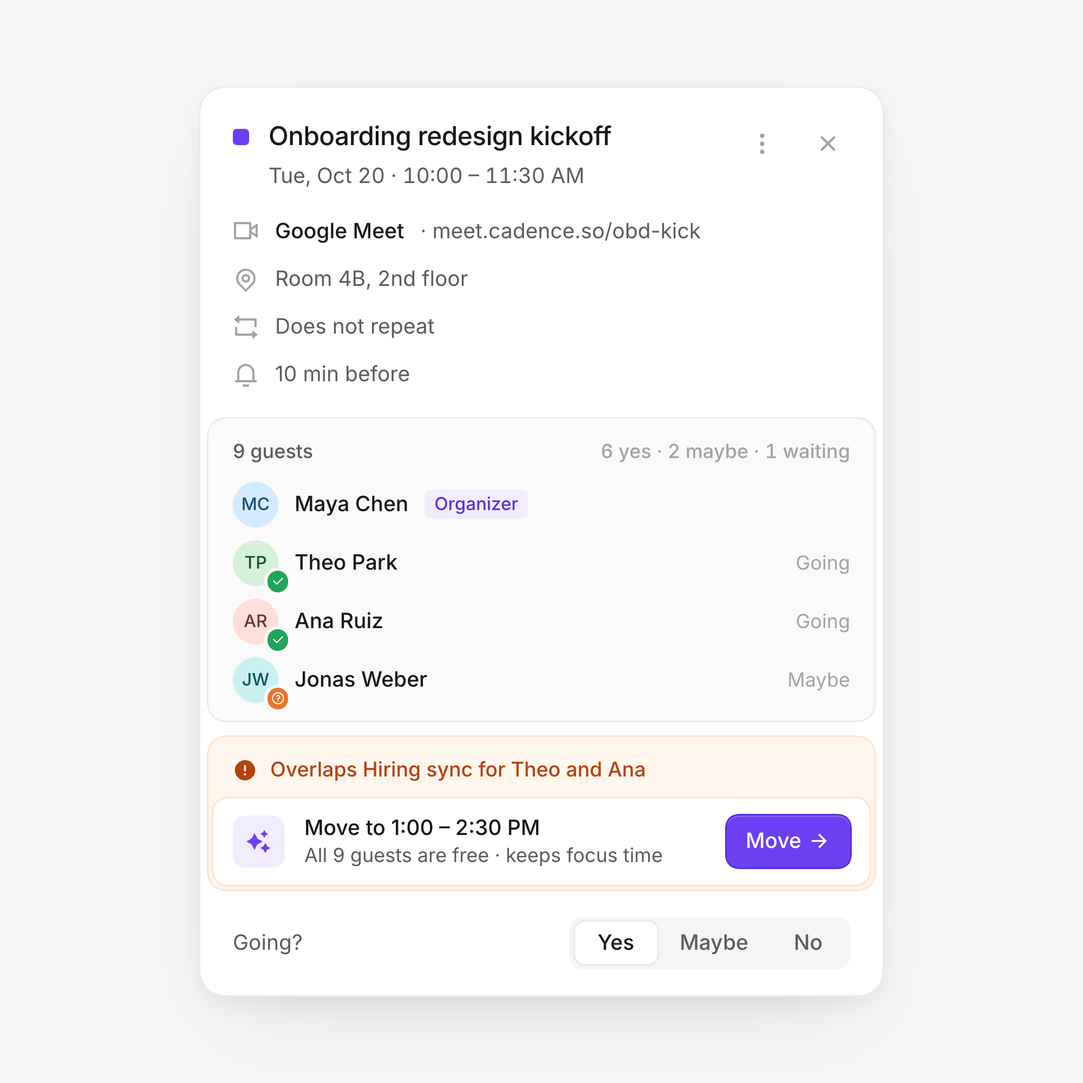
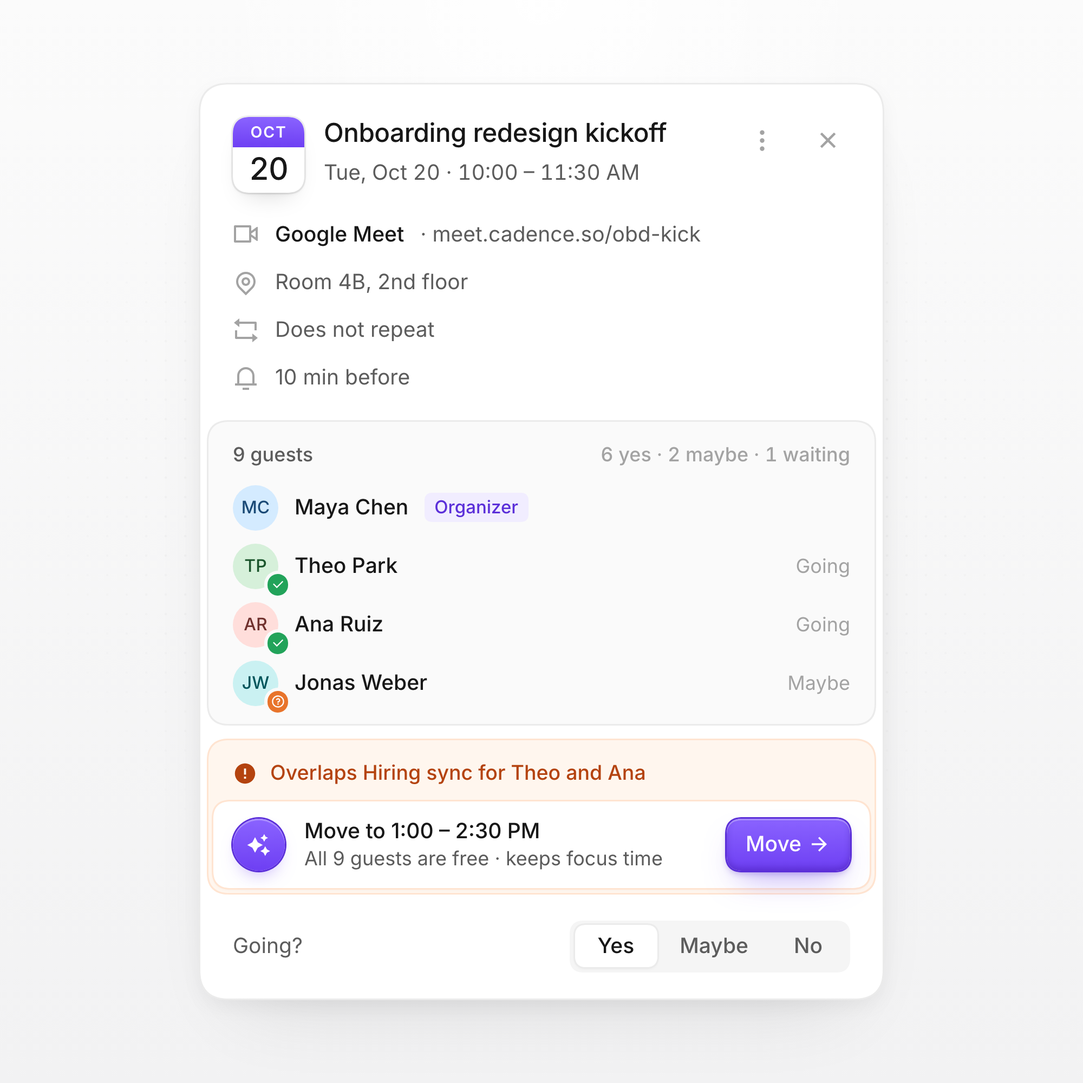
Cadence bento v2 as lit object scenes (Clerk/Raycast grammar in light mode) and restyled event post; founder rule on bento styling

diff --git a/work/replicas/app/src/Bento.tsx b/work/replicas/app/src/Bento.tsx
@@ -1,44 +1,47 @@
-// Cadence landing: the bento section (1440 wide). Each cell = muted kicker (13) + 2-line statement (20/500) + a real
-// mini-UI built from the calendar's own components, fading toward the cell edge (Kuleszo AKZ-17, Kargul micro-tokens:
-// cells are ring-only, r24; inner UI ring + control shadow). One violet accent; tones only where they carry meaning.
-// Sample data.
+// Cadence bento v2 in the Clerk/Raycast object-scene grammar (knowledge/benchmarks/bento/clerk-bento-a.png,
+// raycast-bento.png), carried to light mode: each cell is a lit scene (spotlight from above on a faint dot grid) holding
+// ONE tactile object built from the product (gradient fills, inner top highlight, layered contact + drop shadows),
+// lists fade by staggered opacity, copy sits small at the bottom (15/500 title + 14 muted). One violet accent. Sample data.
 import type { ReactNode } from 'react'
-import { RiTimeFill, RiSparkling2Fill, RiErrorWarningFill, RiArrowRightLine, RiCheckLine, RiLink, RiCalendar2Line, RiVideoOnLine } from '@remixicon/react'
+import { RiSparkling2Fill, RiLockFill, RiArrowRightLine, RiLink, RiCheckLine, RiTimeFill, RiCalendar2Line } from '@remixicon/react'
 
-const C = { ink: '#171717', sub: '#5c5c5c', soft: '#a3a3a3', line: '#ebebeb', violet: '#6e3ff3' }
-const ring = `0 0 0 1px ${C.line}`, lift = `0 0 0 1px ${C.line}, 0 4.5px 13px rgb(0 0 0 / 0.055)`
-const Face = ({ n, hue, s = 24 }: { n: string; hue: number; s?: number }) => <span className="grid shrink-0 place-items-center rounded-full font-[500] ring-2 ring-white" style={{ width: s, height: s, fontSize: s * 0.4, background: `oklch(0.93 0.04 ${hue})`, color: `oklch(0.4 0.09 ${hue})` }}>{n}</span>
+const C = { ink: '#171717', sub: '#5c5c5c', soft: '#a3a3a3', line: '#ebebeb', v: '#6e3ff3' }
+// tactile white object: ring, top highlight, contact shadow, soft drop
+const obj = '0 0 0 1px rgb(0 0 0 / 0.06), inset 0 1px 0 #fff, 0 1px 2px rgb(0 0 0 / 0.06), 0 10px 24px -10px rgb(0 0 0 / 0.16)'
+const raised = '0 0 0 1px #5b2fd9, inset 0 1px 0 rgb(255 255 255 / 0.28), inset 0 -2px 4px rgb(40 0 120 / 0.25), 0 2px 4px rgb(68 27 180 / 0.25), 0 14px 28px -10px rgb(110 63 243 / 0.55)'
+const Face = ({ n, hue, s = 30 }: { n: string; hue: number; s?: number }) => <span className="grid shrink-0 place-items-center rounded-full font-[500]" style={{ width: s, height: s, fontSize: s * 0.36, background: `linear-gradient(180deg, oklch(0.95 0.035 ${hue}), oklch(0.9 0.05 ${hue}))`, color: `oklch(0.4 0.09 ${hue})`, boxShadow: '0 0 0 2px #fff, 0 2px 6px -2px rgb(0 0 0 / 0.2)' }}>{n}</span>
 
-function Cell({ kicker, title, children, className = '', fade = true }: { kicker: string; title: ReactNode; children: ReactNode; className?: string; fade?: boolean }) {
+function Cell({ title, body, children, className = '', h }: { title: string; body: string; children: ReactNode; className?: string; h: number }) {
   return (
-    <div className={`relative flex flex-col overflow-hidden rounded-[24px] bg-white ${className}`} style={{ boxShadow: ring }}>
-      <div className="px-7 pt-7"><div className="text-[13px]" style={{ color: C.soft }}>{kicker}</div><div className="mt-2 text-[20px] font-[500] leading-[26px] tracking-[-0.02em]">{title}</div></div>
-      <div className="relative mt-6 flex-1" style={fade ? { maskImage: 'linear-gradient(180deg, #000 72%, transparent)' } : undefined}>{children}</div>
+    <div className={`relative overflow-hidden rounded-[24px] ${className}`} style={{ height: h, background: 'linear-gradient(180deg, #fbfbfb, #f4f4f5)', boxShadow: '0 0 0 1px rgb(0 0 0 / 0.05), inset 0 1px 0 #fff' }}>
+      <div aria-hidden className="absolute inset-0" style={{ backgroundImage: 'radial-gradient(rgb(0 0 0 / 0.07) 1px, transparent 1.3px)', backgroundSize: '16px 16px', maskImage: 'radial-gradient(70% 60% at 50% 30%, #000, transparent 80%)' }} />
+      <div aria-hidden className="absolute inset-x-0 top-0 h-[70%]" style={{ background: 'radial-gradient(50% 70% at 50% 0%, rgb(255 255 255 / 0.95), transparent 70%)' }} />
+      <div className="absolute inset-x-0 top-0" style={{ height: h - 118 }}>{children}</div>
+      <div className="absolute inset-x-7 bottom-7"><div className="text-[15px] font-[500] tracking-[-0.01em]">{title}</div><div className="mt-1.5 text-[14px] leading-[21px]" style={{ color: C.sub }}>{body}</div></div>
     </div>
   )
 }
 
 function FindTime() {
-  const P: [string, number, [number, number][]][] = [['MC', 250, [[0, 2], [6, 8]]], ['TP', 150, [[1, 3], [7, 9]]], ['AR', 25, [[0, 1], [3, 4], [8, 9]]], ['JW', 200, [[2, 4]]], ['LV', 60, [[0, 2], [7, 10]]]]
-  const col = (i: number) => `${(i / 10) * 100}%`
+  const H = ['10', '11', '12', '1', '2', '3', '4']
   return (
-    <div className="mx-7 rounded-[16px] bg-[#fafafa] p-4" style={{ boxShadow: `inset 0 0 0 1px ${C.line}` }}>
-      <div className="relative mb-3 ml-9 h-4 text-[11px] tabular-nums" style={{ color: C.soft }}>{['9', '10', '11', '12', '1', '2', '3', '4', '5', '6'].map((h, i) => <span key={h} className="absolute" style={{ left: col(i) }}>{h}</span>)}</div>
-      <div className="relative space-y-2">
-        <div className="absolute bottom-[-6px] top-[-6px] z-10 rounded-[10px]" style={{ left: `calc(36px + (100% - 36px) * 0.5)`, width: `calc((100% - 36px) * 0.1)`, boxShadow: `inset 0 0 0 1.5px ${C.violet}`, background: 'rgb(110 63 243 / 0.06)' }} />
-        {P.map(([n, hue, busy]) => (
-          <div key={n} className="flex items-center gap-3">
-            <Face n={n} hue={hue} />
-            <div className="relative h-6 flex-1 rounded-[7px]" style={{ background: '#fff', boxShadow: `inset 0 0 0 1px ${C.line}` }}>
-              {busy.map(([a, b], i) => <span key={i} className="absolute inset-y-[3px] rounded-[5px]" style={{ left: `calc(${col(a)} + 2px)`, width: `calc(${col(b - a)} - 4px)`, background: '#ececec' }} />)}
-            </div>
-          </div>
-        ))}
-      </div>
-      <div className="mt-4 flex items-center gap-2 rounded-[12px] bg-white px-3 py-2.5" style={{ boxShadow: lift }}>
-        <span className="grid size-7 place-items-center rounded-[8px]" style={{ background: '#f1edff', color: C.violet }}><RiSparkling2Fill size={15} /></span>
-        <span className="text-[13px] font-[500]">Wed 2:00 – 3:00 PM</span><span className="text-[12.5px]" style={{ color: C.sub }}>· all 5 free, no focus time touched</span>
-        <span className="ml-auto flex h-8 items-center gap-1 rounded-[9px] px-3 text-[13px] font-[500] text-white" style={{ background: C.violet, boxShadow: '0 0 0 1px #5b2fd9, inset 0 1px 0 rgb(255 255 255 / 0.18)' }}>Book<RiArrowRightLine size={14} /></span>
+    <div className="grid h-full place-items-center">
+      <div className="relative">
+        <div className="flex gap-3">
+          {H.map((h) => {
+            const on = h === '2', busy = ['11', '3'].includes(h)
+            return (
+              <div key={h} className="grid h-[86px] w-[72px] place-items-center rounded-[18px] text-[24px] tracking-[-0.02em] tabular-nums" style={on ? { background: 'linear-gradient(180deg, #8a63ff, #6e3ff3)', color: '#fff', boxShadow: raised, transform: 'translateY(-10px)' } : { background: 'linear-gradient(180deg, #fff, #f6f6f6)', color: busy ? '#cfcfcf' : C.ink, boxShadow: obj }}>
+                <span className="leading-none">{h}<span className="block pt-1 text-center text-[11px] tracking-normal" style={{ color: on ? 'rgb(255 255 255 / 0.75)' : C.soft }}>{busy ? 'busy' : Number(h) < 9 ? 'PM' : 'AM'}</span></span>
+              </div>
+            )
+          })}
+        </div>
+        <div className="absolute -top-[74px] left-[372px] flex -translate-x-1/2 -space-x-1.5">{[['M', 250], ['T', 150], ['A', 25], ['J', 200], ['L', 60]].map(([n, h]) => <Face key={n} n={n as string} hue={h as number} />)}</div>
+        <svg className="pointer-events-none absolute -top-[42px] left-[336px]" width="72" height="34" aria-hidden><path d="M36 0V30" stroke={C.v} strokeWidth="1.5" strokeDasharray="2 4" strokeLinecap="round" /></svg>
+        <div className="absolute -bottom-[62px] left-1/2 flex -translate-x-1/2 items-center gap-2 whitespace-nowrap rounded-full bg-white py-1.5 pl-1.5 pr-3 text-[13px] font-[500]" style={{ boxShadow: obj }}>
+          <span className="grid size-6 place-items-center rounded-full" style={{ background: '#f1edff', color: C.v }}><RiSparkling2Fill size={13} /></span>Wed 2:00 PM · all 5 free
+        </div>
       </div>
     </div>
   )
@@ -46,32 +49,35 @@ function FindTime() {
 
 function Focus() {
   return (
-    <div className="mx-7 space-y-2">
-      <div className="rounded-[14px] px-4 py-3.5" style={{ backgroundImage: 'repeating-linear-gradient(135deg, rgb(110 63 243 / 0.08) 0 1px, transparent 1px 7px)', boxShadow: 'inset 0 0 0 1px rgb(110 63 243 / 0.2)' }}>
-        <div className="flex items-center gap-1.5 text-[13px] font-[500]" style={{ color: C.violet }}><RiTimeFill size={15} />Focus time · 9:00 – 11:00</div>
-        <div className="mt-0.5 text-[12px]" style={{ color: C.sub }}>Protected for 3 weeks running</div>
+    <div className="flex h-full flex-col items-center pt-12">
+      <div className="relative grid h-[96px] w-[230px] place-items-center rounded-[22px]" style={{ backgroundImage: 'repeating-linear-gradient(135deg, rgb(110 63 243 / 0.12) 0 1.2px, rgb(110 63 243 / 0.03) 1.2px 8px)', boxShadow: 'inset 0 0 0 1px rgb(110 63 243 / 0.22), 0 10px 24px -14px rgb(110 63 243 / 0.5)' }}>
+        <span className="grid size-[58px] place-items-center rounded-full text-white" style={{ background: 'linear-gradient(180deg, #8a63ff, #6e3ff3)', boxShadow: raised }}><RiLockFill size={24} /></span>
+        <span className="absolute -bottom-3 rounded-full bg-white px-2.5 py-1 text-[12px] font-[500] tabular-nums" style={{ color: C.v, boxShadow: obj }}>9:00 – 11:00</span>
       </div>
-      {[['Vendor call: Halo', 'Declined · offered Thu 4 PM'], ['Quick sync?', 'Declined · moved to async thread'], ['Design review', 'Moved to 2:00 PM']].map(([t, s]) => (
-        <div key={t} className="flex items-center gap-2.5 rounded-[12px] bg-white px-3 py-2.5" style={{ boxShadow: lift }}>
-          <span className="grid size-6 place-items-center rounded-full" style={{ background: '#f5f5f5', color: C.sub }}><RiCheckLine size={13} /></span>
-          <div className="leading-tight"><div className="text-[13px] font-[500]">{t}</div><div className="mt-0.5 text-[12px]" style={{ color: C.soft }}>{s}</div></div>
-        </div>
-      ))}
+      <div className="mt-8 w-[250px] space-y-2">
+        {[['Vendor call: Halo', 1], ['Quick sync?', 0.55], ['Design review', 0.25]].map(([t, o]) => (
+          <div key={t as string} className="flex items-center gap-2.5 rounded-[12px] bg-white px-3 py-2" style={{ boxShadow: obj, opacity: o as number }}>
+            <span className="grid size-5 place-items-center rounded-full" style={{ background: '#f5f5f5', color: C.sub }}><RiCheckLine size={12} /></span>
+            <span className="text-[13px] font-[500]">{t as string}</span><span className="ml-auto text-[12px]" style={{ color: C.soft }}>Declined</span>
+          </div>
+        ))}
+      </div>
     </div>
   )
 }
 
 function Conflict() {
   return (
-    <div className="mx-7">
-      <div className="relative h-[112px]">
-        <div className="absolute left-0 top-0 h-[76px] w-[64%] rounded-[12px] px-3 py-2.5" style={{ background: '#f4f0ff', boxShadow: 'inset 0 0 0 1px #e6dcff' }}><div className="text-[12.5px] font-[500]">Onboarding kickoff</div><div className="text-[11.5px]" style={{ color: '#5b2fd9' }}>10:00 – 11:30</div></div>
-        <div className="absolute right-0 top-[36px] h-[60px] w-[54%] rounded-[12px] px-3 py-2.5" style={{ background: '#eef4ff', boxShadow: 'inset 0 0 0 1px #dce8ff, 0 4px 10px -4px rgb(0 0 0 / 0.08)' }}><div className="text-[12.5px] font-[500]">Hiring sync</div><div className="text-[11.5px]" style={{ color: '#1d4fb8' }}>10:30 – 11:00</div></div>
-        <span className="absolute left-[46%] top-[24px] grid size-6 -translate-x-1/2 place-items-center rounded-full bg-white" style={{ boxShadow: lift, color: '#e8742b' }}><RiErrorWarningFill size={15} /></span>
-      </div>
-      <div className="flex items-center gap-2.5 rounded-[12px] bg-white px-3 py-2.5" style={{ boxShadow: lift }}>
-        <span className="grid size-7 place-items-center rounded-[8px]" style={{ background: '#f1edff', color: C.violet }}><RiSparkling2Fill size={14} /></span>
-        <div className="leading-tight"><div className="text-[13px] font-[500]">Move kickoff to 1:00 PM</div><div className="mt-0.5 text-[12px]" style={{ color: C.sub }}>All 9 guests free</div></div>
+    <div className="grid h-full place-items-center" style={{ perspective: 900 }}>
+      <div className="relative h-[200px] w-[300px]" style={{ transform: 'rotateX(28deg) rotateZ(-10deg)', transformStyle: 'preserve-3d' }}>
+        <div className="absolute inset-0 rounded-[20px]" style={{ background: 'linear-gradient(180deg, #fff, #f6f6f6)', boxShadow: obj }}>
+          {[0, 1, 2, 3].map((i) => <div key={i} className="absolute inset-x-4 h-px" style={{ top: 30 + i * 46, background: C.line }} />)}
+        </div>
+        <div className="absolute left-5 top-9 h-[70px] w-[150px] rounded-[12px] px-3 py-2" style={{ background: '#f4f0ff', boxShadow: 'inset 0 0 0 1px #e1d6ff' }}><div className="text-[12px] font-[500]">Hiring sync</div><div className="text-[11px]" style={{ color: '#5b2fd9' }}>10:30</div></div>
+        <div className="absolute left-[132px] top-[96px] h-[70px] w-[150px] rounded-[12px] px-3 py-2" style={{ background: '#fff', boxShadow: '0 0 0 1.5px #6e3ff3, 0 18px 30px -12px rgb(110 63 243 / 0.5)', transform: 'translateZ(36px)' }}>
+          <div className="text-[12px] font-[500]">Kickoff</div><div className="text-[11px]" style={{ color: C.v }}>moved to 1:00 PM</div>
+        </div>
+        <svg className="absolute left-[110px] top-[60px]" width="80" height="60" aria-hidden><path d="M4 6C30 6 48 20 60 50" fill="none" stroke={C.v} strokeWidth="1.5" strokeDasharray="2 4" strokeLinecap="round" /></svg>
       </div>
     </div>
   )
@@ -79,34 +85,36 @@ function Conflict() {
 
 function Booking() {
   return (
-    <div className="mx-7 rounded-[16px] bg-white p-4" style={{ boxShadow: lift }}>
-      <div className="flex items-center gap-2.5"><Face n="MC" hue={250} s={30} /><div className="leading-tight"><div className="text-[13px] font-[500]">Intro with Maya</div><div className="mt-0.5 flex items-center gap-1 text-[12px]" style={{ color: C.soft }}><RiVideoOnLine size={13} />30 min · Meet</div></div></div>
-      <div className="mt-3.5 text-[12px] font-[500]" style={{ color: C.sub }}>Thu, Oct 22</div>
-      <div className="mt-2 grid grid-cols-3 gap-1.5">{['9:30', '10:00', '1:30', '2:00', '3:30', '4:00'].map((t, i) => <span key={t} className="grid h-8 place-items-center rounded-[9px] text-[12.5px] font-[500] tabular-nums" style={i === 3 ? { background: C.violet, color: '#fff', boxShadow: '0 0 0 1px #5b2fd9' } : { boxShadow: ring, color: C.ink }}>{t}</span>)}</div>
-      <div className="mt-3 flex items-center gap-1.5 text-[12px]" style={{ color: C.soft }}><RiLink size={13} />cadence.so/maya/intro</div>
+    <div className="flex h-full flex-col items-center pt-14">
+      <div className="flex items-center gap-2 rounded-full bg-white py-2 pl-2 pr-4 text-[14px] font-[500]" style={{ boxShadow: `${obj}, 0 0 0 6px rgb(110 63 243 / 0.06)` }}>
+        <span className="grid size-8 place-items-center rounded-full text-white" style={{ background: 'linear-gradient(180deg, #8a63ff, #6e3ff3)', boxShadow: raised }}><RiLink size={15} /></span>cadence.so/maya
+      </div>
+      <div className="mt-9 flex gap-2">
+        {['9:30', '1:30', '2:00', '3:30'].map((t, i) => (
+          <span key={t} className="grid h-11 w-[64px] place-items-center rounded-[13px] text-[14px] font-[500] tabular-nums" style={i === 2 ? { background: 'linear-gradient(180deg, #8a63ff, #6e3ff3)', color: '#fff', boxShadow: raised, transform: 'translateY(-6px)' } : { background: 'linear-gradient(180deg, #fff, #f6f6f6)', boxShadow: obj, opacity: [0.5, 0.8, 1, 0.8][i] }}>{t}</span>
+        ))}
+      </div>
+      <div className="mt-5 flex items-center gap-1.5 text-[12.5px]" style={{ color: C.sub }}><RiCalendar2Line size={14} />Thu, Oct 22 · 30 min</div>
     </div>
   )
 }
 
 function Insight() {
-  const D: [string, number, number][] = [['Mon', 4.5, 2], ['Tue', 3, 3.5], ['Wed', 5, 1], ['Thu', 2, 4], ['Fri', 1.5, 4.5]]
+  const D: [string, number, number][] = [['M', 4.5, 2], ['T', 3, 3.5], ['W', 5, 1], ['T', 2, 4], ['F', 1.5, 4.5]]
   return (
-    <div className="mx-7">
-      <div className="flex items-baseline gap-2"><span className="text-[28px] tracking-[-0.02em] tabular-nums" style={{ color: C.violet }}>15h</span><span className="text-[13px]" style={{ color: C.sub }}>focus time · +4h vs last week</span></div>
-      <div className="mt-4 flex items-end gap-3" style={{ height: 150 }}>
-        {D.map(([d, m, f]) => (
-          <div key={d} className="flex flex-1 flex-col items-center gap-2">
-            <div className="flex w-full flex-col gap-1">
-              <span className="w-full rounded-[6px]" style={{ height: f * 15, backgroundImage: 'repeating-linear-gradient(135deg, rgb(110 63 243 / 0.22) 0 1px, rgb(110 63 243 / 0.08) 1px 6px)', boxShadow: 'inset 0 0 0 1px rgb(110 63 243 / 0.25)' }} />
-              <span className="w-full rounded-[6px] bg-[#171717]" style={{ height: m * 15, opacity: 0.85 }} />
-            </div>
-            <span className="text-[11.5px]" style={{ color: C.soft }}>{d}</span>
+    <div className="flex h-full items-end justify-center gap-3.5 pb-6">
+      {D.map(([d, m, f], i) => (
+        <div key={i} className="flex flex-col items-center gap-2">
+          <div className="flex w-[46px] flex-col gap-1">
+            <span className="w-full rounded-[10px]" style={{ height: f * 22, backgroundImage: 'repeating-linear-gradient(135deg, rgb(110 63 243 / 0.28) 0 1.2px, rgb(110 63 243 / 0.08) 1.2px 7px)', boxShadow: `inset 0 0 0 1px rgb(110 63 243 / ${i === 4 ? 0.6 : 0.25})${i === 4 ? ', 0 10px 20px -10px rgb(110 63 243 / 0.6)' : ''}` }} />
+            <span className="w-full rounded-[10px]" style={{ height: m * 22, background: 'linear-gradient(180deg, #3a3a3d, #1c1c1e)', boxShadow: '0 0 0 1px #111, inset 0 1px 0 rgb(255 255 255 / 0.15), 0 6px 14px -8px rgb(0 0 0 / 0.5)' }} />
           </div>
-        ))}
-      </div>
-      <div className="mt-3 flex items-center gap-4 text-[12px]" style={{ color: C.sub }}>
-        <span className="flex items-center gap-1.5"><span className="size-2 rounded-[2px] bg-[#171717] opacity-85" />Meetings</span>
-        <span className="flex items-center gap-1.5"><span className="size-2 rounded-[2px]" style={{ background: 'rgb(110 63 243 / 0.35)' }} />Focus</span>
+          <span className="text-[12px] font-[500]" style={{ color: C.soft }}>{d}</span>
+        </div>
+      ))}
+      <div className="absolute left-7 top-7 rounded-[14px] bg-white px-3 py-2" style={{ boxShadow: obj }}>
+        <div className="flex items-center gap-1 text-[12px]" style={{ color: C.sub }}><RiTimeFill size={13} style={{ color: C.v }} />Focus</div>
+        <div className="text-[22px] tracking-[-0.02em] tabular-nums" style={{ color: C.v }}>15h</div>
       </div>
     </div>
   )
@@ -114,21 +122,19 @@ function Insight() {
 
 export default function Bento() {
   return (
-    <div className="relative" style={{ width: 1440, height: 1180, background: '#f7f7f7', fontFamily: '"Inter Variable", system-ui, sans-serif', fontFeatureSettings: '"cv11", "ss01"', color: C.ink }}>
+    <div className="relative" style={{ width: 1440, height: 1220, background: '#ffffff', fontFamily: '"Inter Variable", system-ui, sans-serif', fontFeatureSettings: '"cv11", "ss01"', color: C.ink }}>
       <div className="absolute inset-x-[120px] top-[112px]">
-        <div className="flex items-end justify-between">
-          <div>
-            <div className="flex h-7 w-fit items-center gap-1.5 rounded-full bg-white px-2.5 text-[12.5px] font-[500]" style={{ boxShadow: ring, color: C.sub }}><RiCalendar2Line size={14} style={{ color: C.violet }} />How Cadence works</div>
-            <h2 className="mt-5 text-[44px] font-[550] leading-[1.06] tracking-[-0.04em]">Every Hour, Accounted For</h2>
-          </div>
-          <p className="w-[400px] pb-1 text-[16px] leading-[25px]" style={{ color: C.sub }}>Cadence finds the time, guards the focus and settles the conflicts, so your week arrives already arranged.</p>
+        <div className="text-center">
+          <h2 className="text-[44px] font-[550] leading-[1.06] tracking-[-0.04em]">Every Hour, Accounted For</h2>
+          <p className="mx-auto mt-4 w-[520px] text-[17px] leading-[26px]" style={{ color: C.sub }}>Cadence finds the time, guards the focus and settles<br />the conflicts, so your week arrives already arranged.</p>
+          <span className="mt-6 inline-flex items-center gap-1 text-[14px] font-[500]">See how it works<RiArrowRightLine size={15} /></span>
         </div>
-        <div className="mt-12 grid grid-cols-3 gap-4" style={{ gridTemplateRows: '430px 400px' }}>
-          <Cell className="col-span-2" kicker="Find a time" title={<>One hour that works for everyone,<br />found across every calendar</>}><FindTime /></Cell>
-          <Cell kicker="Focus time" title={<>Deep work that stays<br />on the calendar</>}><Focus /></Cell>
-          <Cell kicker="Conflicts" title={<>Double bookings settle<br />before you see them</>}><Conflict /></Cell>
-          <Cell kicker="Scheduling links" title={<>Let people book you<br />on your terms</>}><Booking /></Cell>
-          <Cell kicker="Weekly insight" title={<>See where<br />the week went</>} fade={false}><Insight /></Cell>
+        <div className="mt-14 grid grid-cols-3 gap-4">
+          <Cell className="col-span-2" h={420} title="Find a time" body="The one hour that works for every guest, found across all their calendars."><FindTime /></Cell>
+          <Cell h={420} title="Focus time" body="Deep work stays on the calendar. Cadence declines what would break it."><Focus /></Cell>
+          <Cell h={400} title="Conflicts settle themselves" body="Double bookings move to the next slot everyone has free."><Conflict /></Cell>
+          <Cell h={400} title="Scheduling links" body="Share a link, let people pick a slot you actually have."><Booking /></Cell>
+          <Cell h={400} title="Weekly insight" body="See how much of the week went to meetings and how much to work."><Insight /></Cell>
         </div>
       </div>
     </div>

diff --git a/work/replicas/app/src/EventCard.tsx b/work/replicas/app/src/EventCard.tsx
@@ -15,12 +15,17 @@ const PEOPLE: [string, string, number, 'yes' | 'maybe' | 'no' | 'org'][] = [['Ma
 
 export default function EventCard() {
   return (
-    <div className="grid place-items-center overflow-hidden" style={{ width: 1000, height: 1000, background: '#f5f5f5', fontFamily: '"Inter Variable", system-ui, sans-serif', fontFeatureSettings: '"cv11", "ss01"', color: C.ink }}>
-      <div style={{ zoom: 1.5 }}>
+    <div className="relative grid place-items-center overflow-hidden" style={{ width: 1000, height: 1000, background: 'linear-gradient(180deg, #fbfbfb, #f2f2f3)', fontFamily: '"Inter Variable", system-ui, sans-serif', fontFeatureSettings: '"cv11", "ss01"', color: C.ink }}>
+      <div aria-hidden className="absolute inset-0" style={{ backgroundImage: 'radial-gradient(rgb(0 0 0 / 0.07) 1px, transparent 1.3px)', backgroundSize: '18px 18px', maskImage: 'radial-gradient(60% 55% at 50% 45%, #000, transparent 85%)' }} />
+      <div aria-hidden className="absolute inset-x-0 top-0 h-[60%]" style={{ background: 'radial-gradient(45% 70% at 50% 0%, rgb(255 255 255 / 0.95), transparent 70%)' }} />
+      <div className="relative" style={{ zoom: 1.5 }}>
         <section data-subject aria-label="Event details, sample content" className="w-[420px] rounded-[18px] bg-white" style={{ boxShadow: `0 0 0 1px ${C.line}, 0 4.5px 13px rgb(0 0 0 / 0.055), 0 24px 48px -24px rgb(0 0 0 / 0.12)` }}>
           {/* header */}
           <div className="flex items-start gap-3 px-5 pb-4 pt-5">
-            <span className="mt-[5px] size-2.5 shrink-0 rounded-[3px]" style={{ background: C.violet }} />
+            <span className="w-[44px] shrink-0 overflow-hidden rounded-[11px] bg-white text-center" style={{ boxShadow: '0 0 0 1px rgb(0 0 0 / 0.07), inset 0 1px 0 #fff, 0 1px 2px rgb(0 0 0 / 0.06), 0 8px 16px -8px rgb(0 0 0 / 0.18)' }}>
+              <span className="block py-[2px] text-[9.5px] font-[600] tracking-[0.06em] text-white" style={{ background: 'linear-gradient(180deg, #8a63ff, #6e3ff3)' }}>OCT</span>
+              <span className="block pb-1 pt-0.5 text-[19px] font-[500] leading-[22px] tracking-[-0.02em] tabular-nums">20</span>
+            </span>
             <div className="min-w-0 flex-1 leading-tight">
               <div className="text-[16px] font-[500] tracking-[-0.01em]">Onboarding redesign kickoff</div>
               <div className="mt-1.5 text-[13px] tabular-nums" style={{ color: C.sub }}>Tue, Oct 20 · 10:00 – 11:30 AM</div>
@@ -55,12 +60,12 @@ export default function EventCard() {
             <div className="rounded-[14px] p-1" style={{ background: '#fff6ee', boxShadow: 'inset 0 0 0 1px #ffe4d1' }}>
               <div className="flex items-center gap-2 px-3 pb-2 pt-2 text-[12.5px] font-[500]" style={{ color: '#b4430f' }}><RiErrorWarningFill size={15} />Overlaps Hiring sync for Theo and Ana</div>
               <div className="flex items-center gap-3 rounded-[11px] bg-white px-3 py-2.5" style={{ boxShadow: `0 0 0 1px #ffe4d1, 0 1px 2px rgb(0 0 0 / 0.04)` }}>
-                <span className="grid size-8 shrink-0 place-items-center rounded-[9px]" style={{ background: '#f1edff', color: C.violet }}><RiSparkling2Fill size={16} /></span>
+                <span className="grid size-8 shrink-0 place-items-center rounded-full text-white" style={{ background: 'linear-gradient(180deg, #8a63ff, #6e3ff3)', boxShadow: '0 0 0 1px #5b2fd9, inset 0 1px 0 rgb(255 255 255 / 0.28), 0 6px 12px -6px rgb(110 63 243 / 0.6)' }}><RiSparkling2Fill size={15} /></span>
                 <div className="min-w-0 flex-1 leading-tight">
                   <div className="text-[13px] font-[500]">Move to 1:00 – 2:30 PM</div>
                   <div className="mt-0.5 text-[12px]" style={{ color: C.sub }}>All 9 guests are free · keeps focus time</div>
                 </div>
-                <span className="flex h-8 items-center gap-1 rounded-[9px] px-3 text-[13px] font-[500] text-white" style={{ background: C.violet, boxShadow: '0 0 0 1px #5b2fd9, inset 0 1px 0 rgb(255 255 255 / 0.18)' }}>Move<RiArrowRightLine size={14} /></span>
+                <span className="flex h-8 items-center gap-1 rounded-[10px] px-3 text-[13px] font-[500] text-white" style={{ background: 'linear-gradient(180deg, #8a63ff, #6e3ff3)', boxShadow: '0 0 0 1px #5b2fd9, inset 0 1px 0 rgb(255 255 255 / 0.28), inset 0 -2px 4px rgb(40 0 120 / 0.25), 0 2px 4px rgb(68 27 180 / 0.25), 0 10px 20px -8px rgb(110 63 243 / 0.55)' }}>Move<RiArrowRightLine size={14} /></span>
               </div>
             </div>
           </div>

diff --git a/knowledge/founder/founder-taste.md b/knowledge/founder/founder-taste.md
@@ -512,3 +512,6 @@ Every rule here is a direct founder verdict on real output. It outranks books, w
 - **RULE** [founder] Work replicate-first (docs/REPLICATE-FIRST.md): every new piece starts from one named reference the founder rates (AlignUI, affectUI/Flo, Kargul, Rico, Attio), rebuilt at its pixel size, overlaid with `tools/compare.mjs` until rows, columns, dividers and edges register within ~4px, then given our content and 1-3 owned touches. Build only what was asked: no animation, extra states or sections unless named.
   **Why** Founder after the Share and Expense rejects: "I did not ask to animate... the spacing the roundness the components the colors everything is just not good... form not being centered... just try replicating a few works of theirs (in terms of style with your own touch that would be backed up by the book and your checks)... create a way to work like we used to".
   **Applies to** every design delivery. **Check** `work/<name>/cmp-*-overlay.png` exists and registers; DIRECTION.md names the reference and lists the owned touches. **Source** founder, 2026-10-20
+- **RULE** [founder] Bento cells and component posts need styling, not just UI in a white box: build each bento cell as a lit object scene (Clerk/Raycast grammar in light mode): a soft spotlight from above over a faint dot grid on a #fbfbfb to #f4f4f5 cell, one tactile object made from the product (white objects with ring + inner top highlight + contact + soft drop; the hero element raised in the accent with a gradient fill, inner shade and a tinted drop), staggered-opacity lists, a little depth (one tilt, one lifted card), and the copy small at the bottom (15/500 title + 14 muted). Component posts get the same lit canvas and at least one crafted object (date tile, raised accent button).
+  **Why** Founder on the first Cadence bento and event card (flat white cards with UI inside): "the component and bento straight up ass, nothing cool about them, no cool stylings or stuff".
+  **Applies to** bento sections and component posts. **Check** every cell has one tactile object with the 4-part shadow and a spotlight; no cell is only a white card with rows. **Source** founder, Cadence, 2026-10-20
